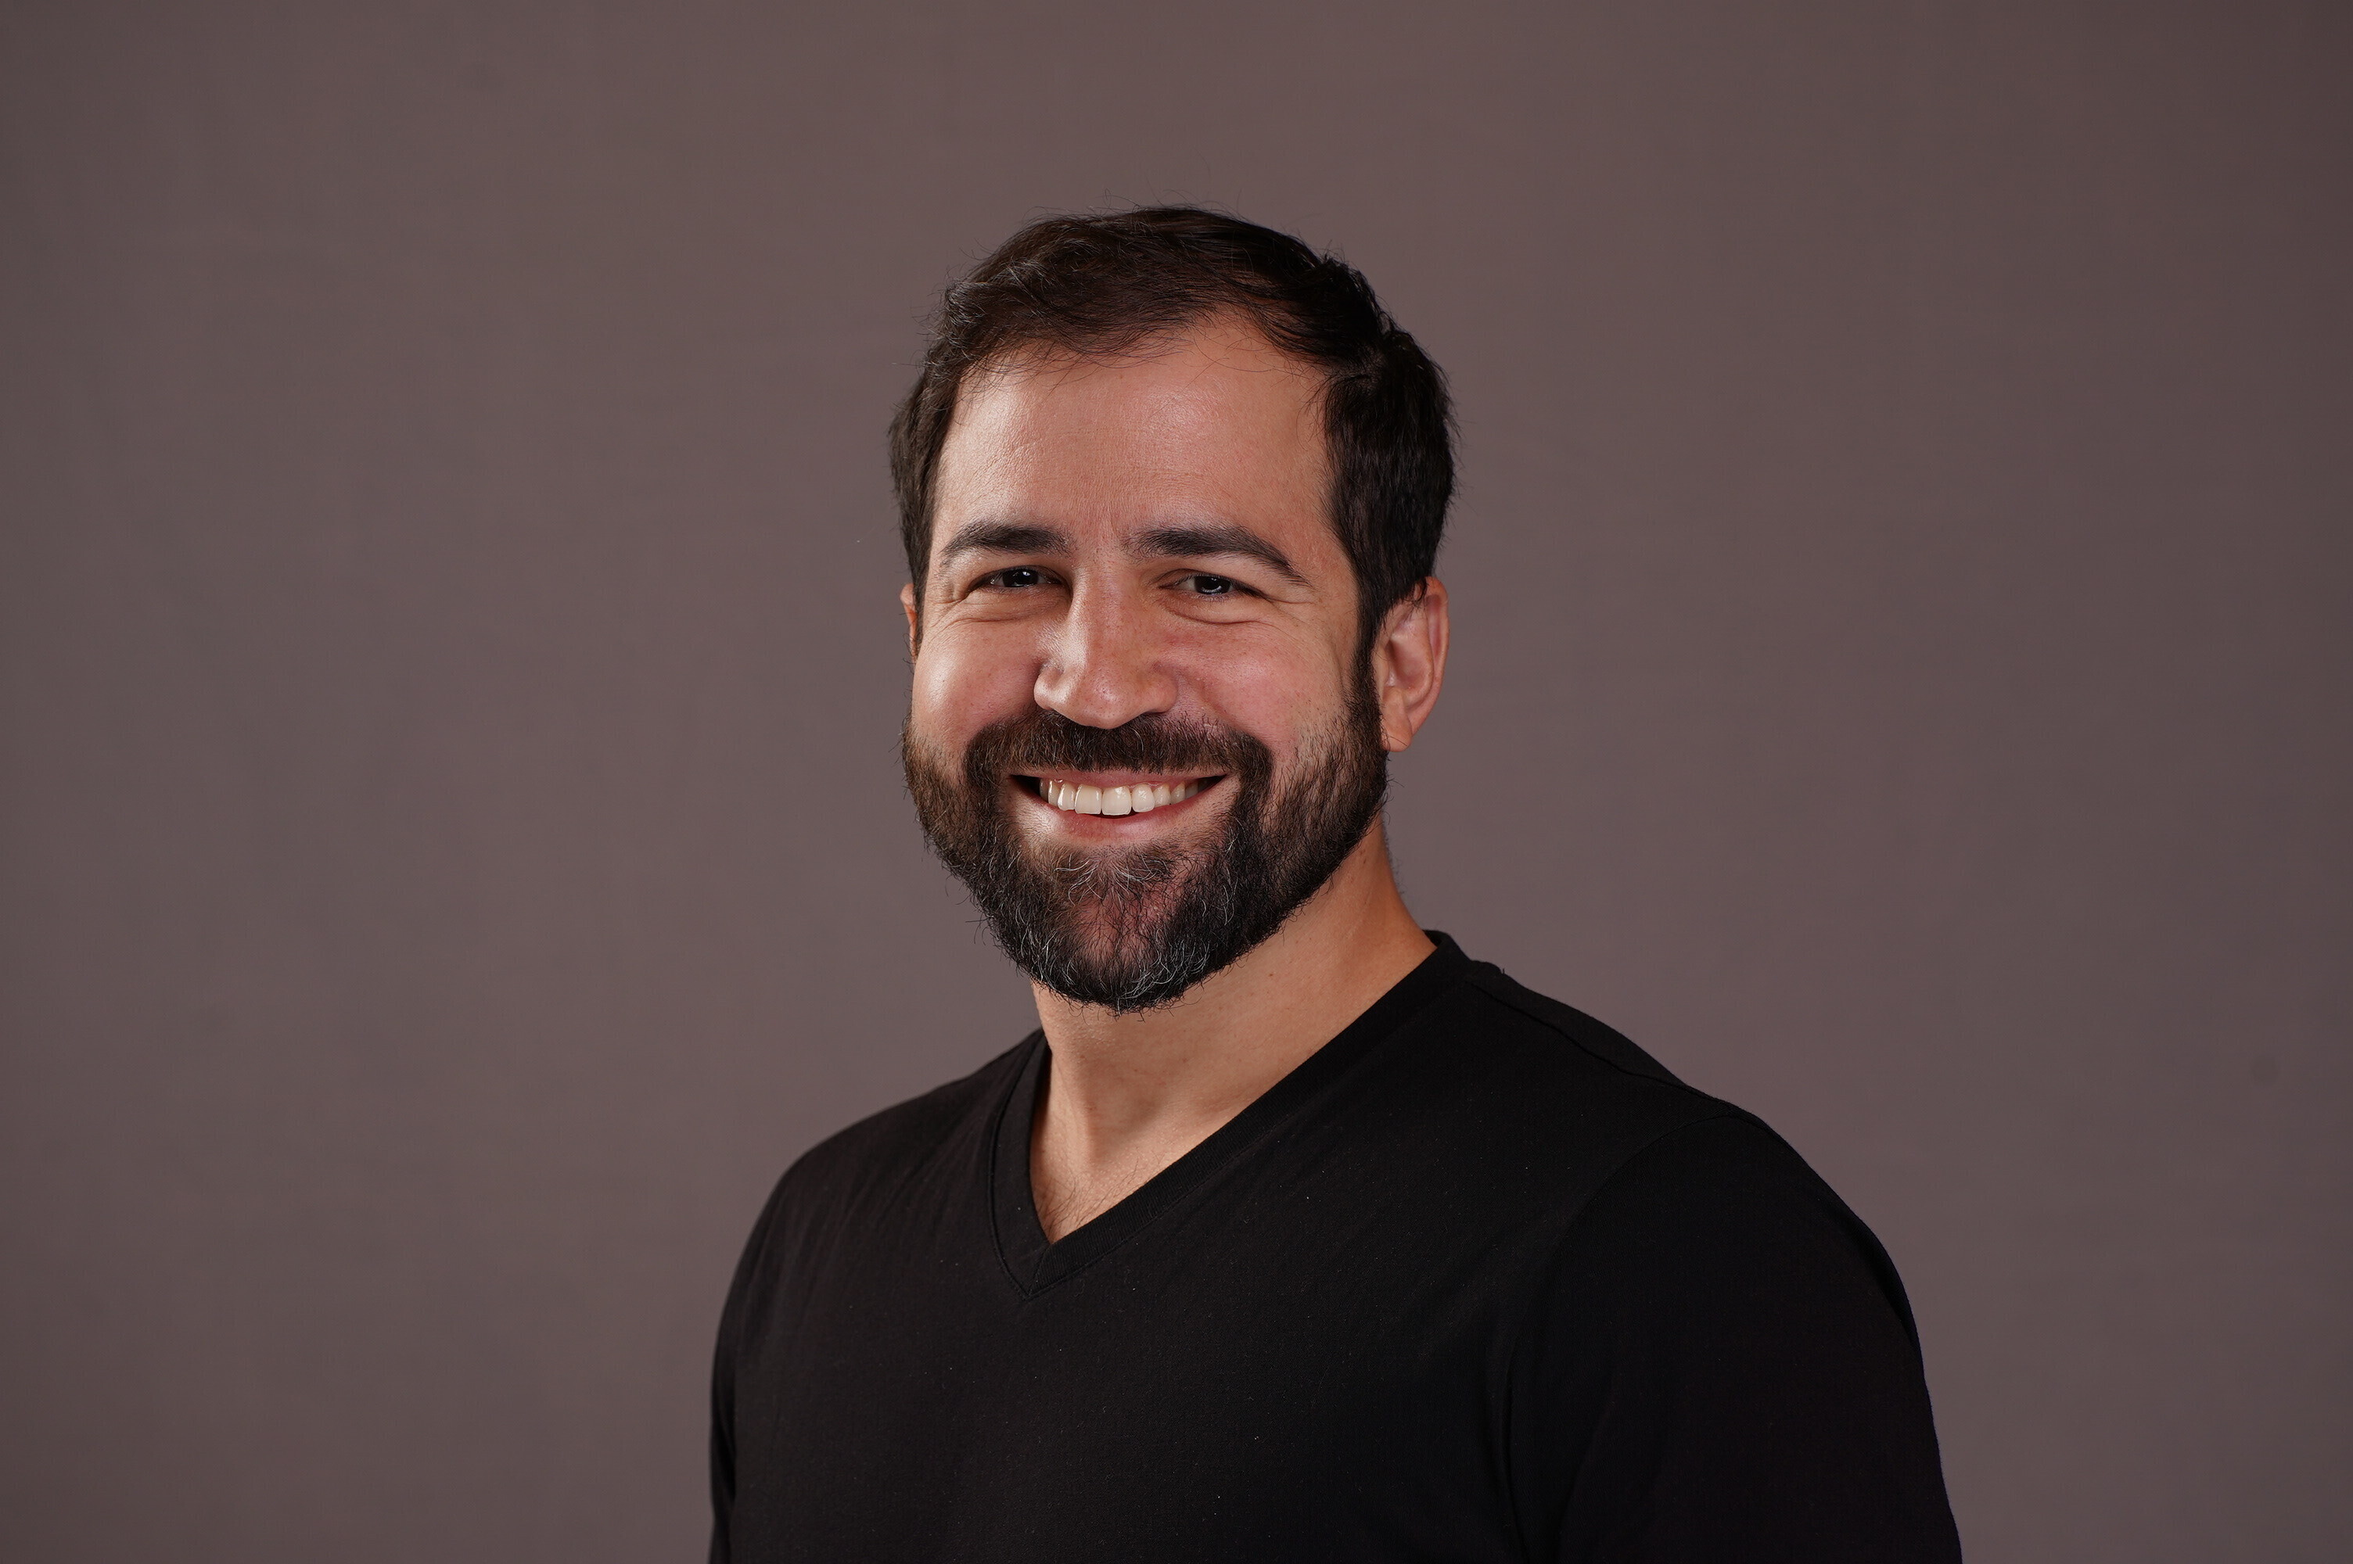
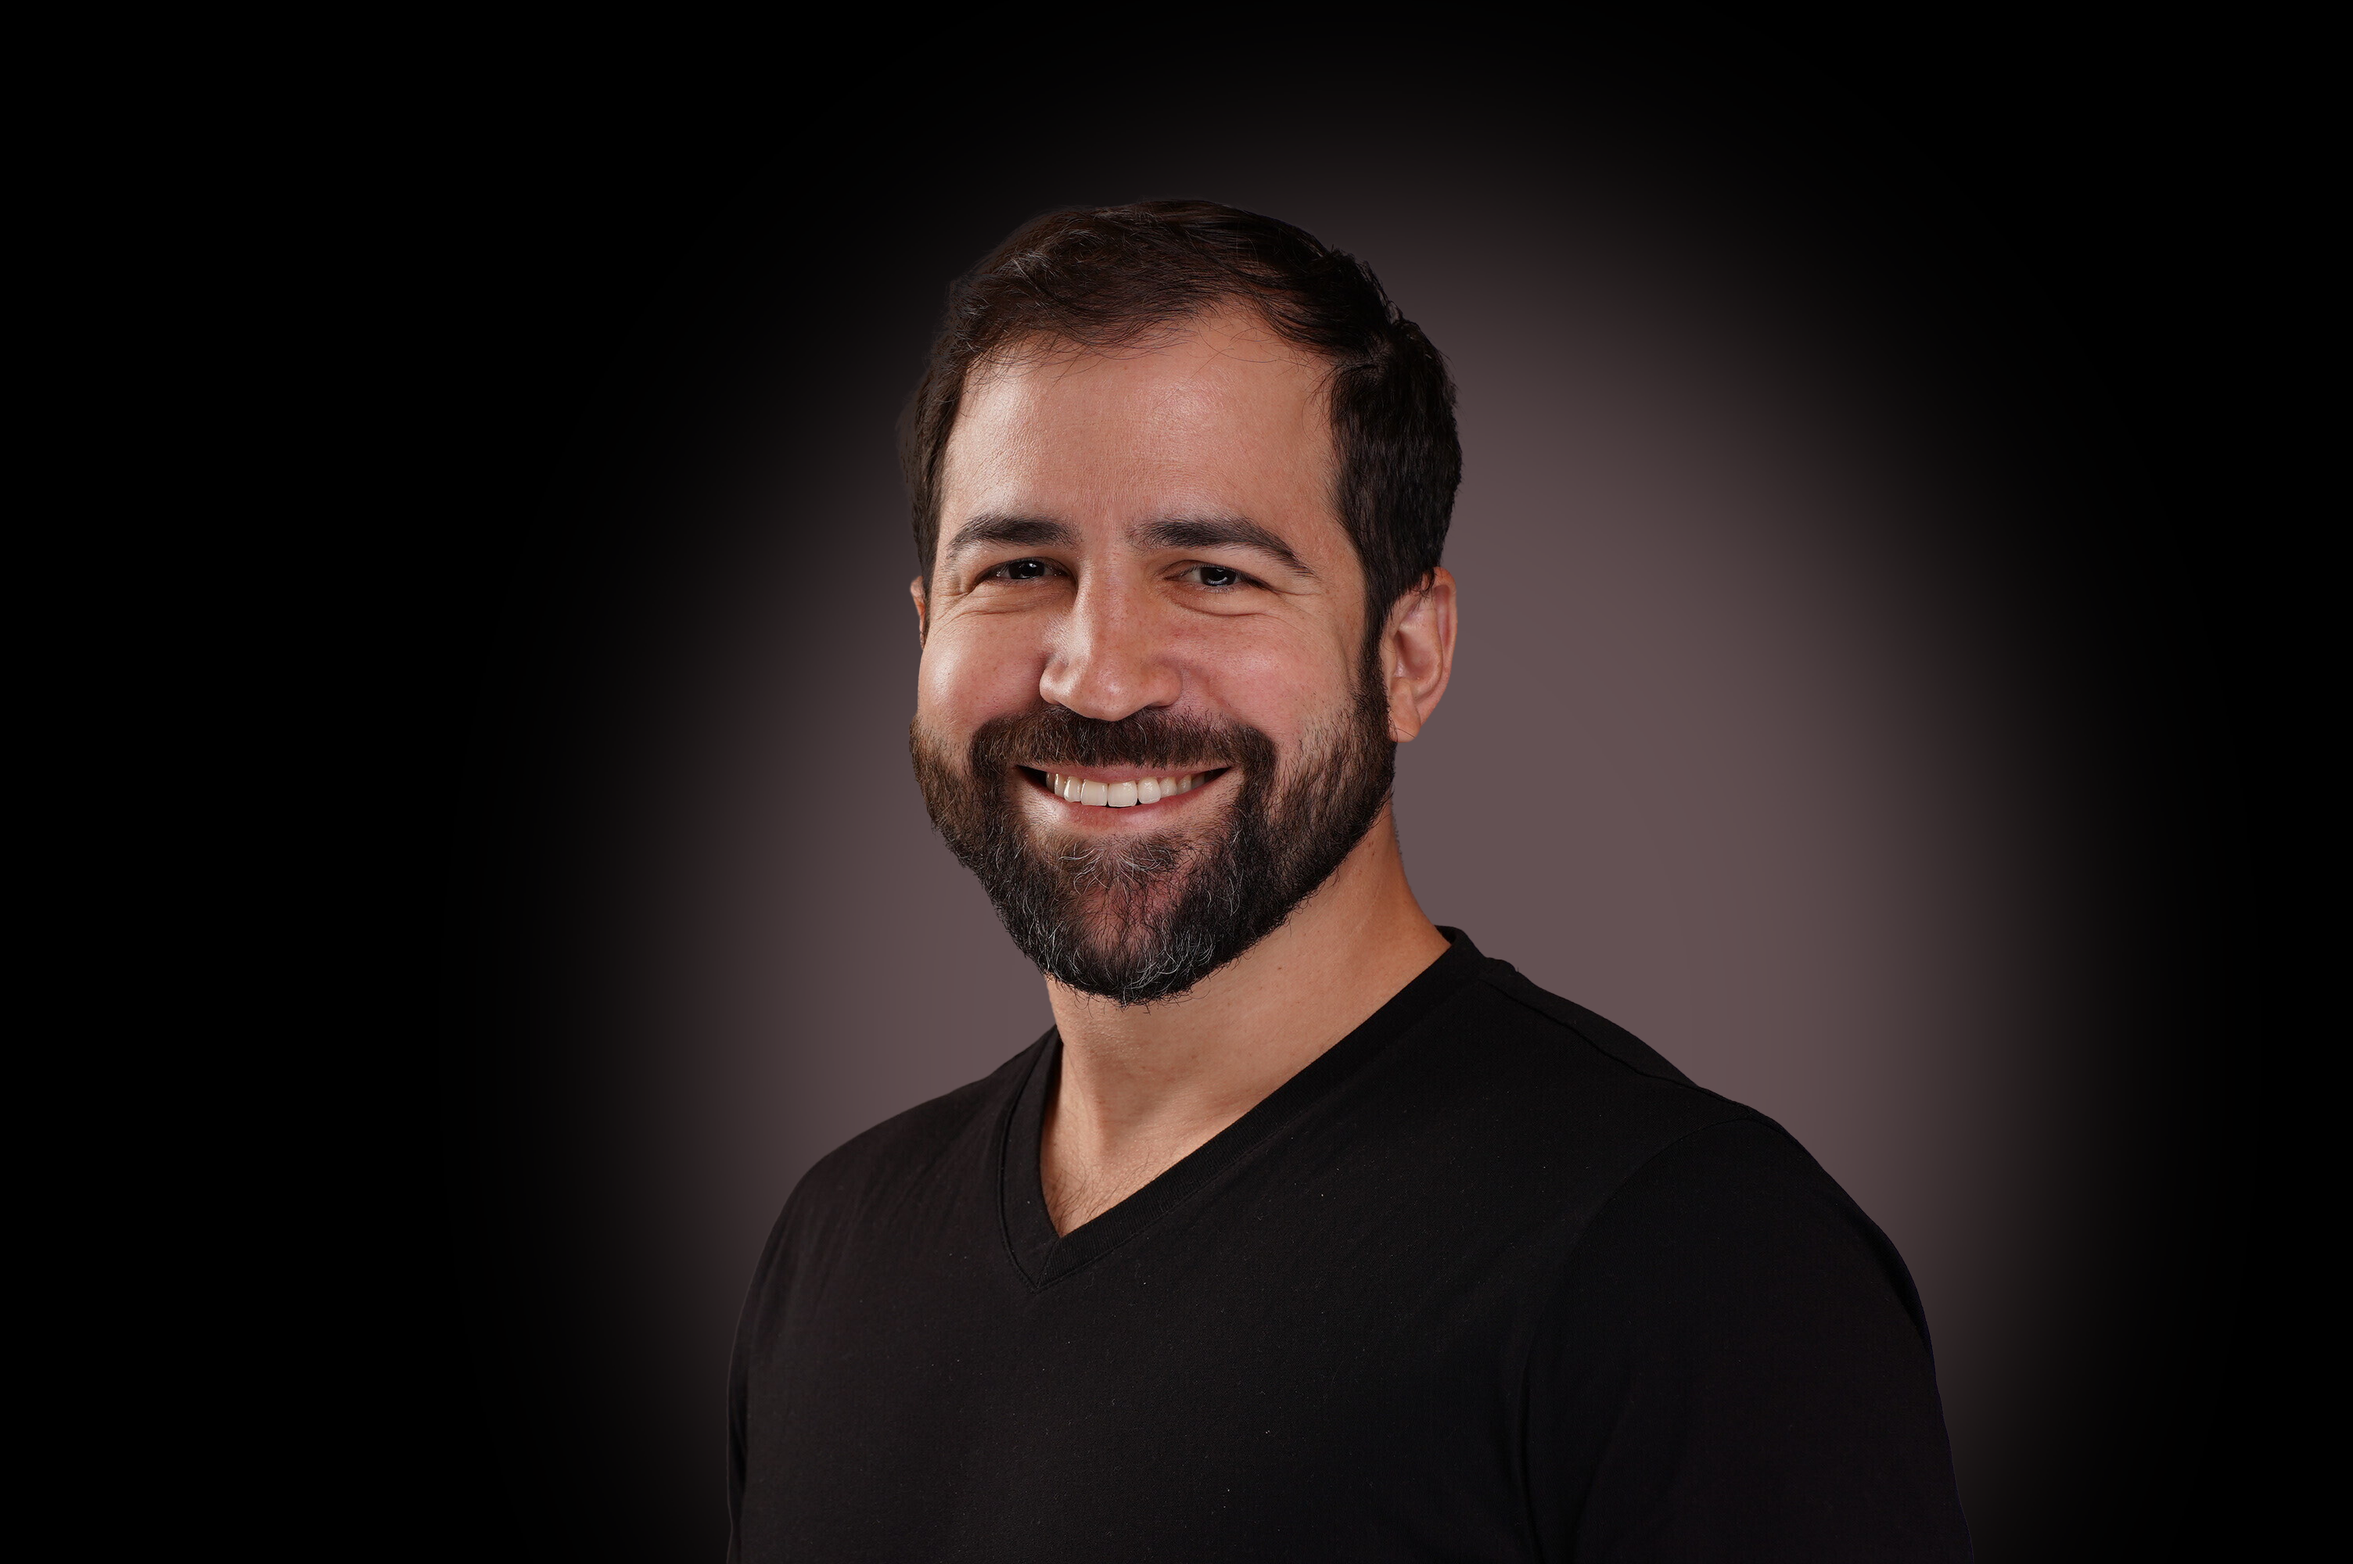
change hero image

diff --git a/src/components/HeroSection.tsx b/src/components/HeroSection.tsx
@@ -47,23 +47,13 @@ const HeroSection: React.FC = () => {
         </div>
 
         <div className="w-full md:w-1/2 flex items-center justify-center md:justify-end relative">
-          <div className="relative w-full h-auto md:h-[500px]">
+          <div className="relative w-full h-auto lg:h-[500px]">
             <img
               className="w-full h-full object-cover"
               src="/vitor-v2.JPG"
               alt="Vitor Oliveira"
             />
-            <div
-              className="absolute inset-0 pointer-events-none"
-              style={{
-                background: `
-                  linear-gradient(to right, rgba(0,0,0,0.8) 0%, rgba(0,0,0,0) 15%),
-                  linear-gradient(to left, rgba(0,0,0,0.8) 0%, rgba(0,0,0,0) 15%),
-                  linear-gradient(to bottom, rgba(0,0,0,0.8) 0%, rgba(0,0,0,0) 15%),
-                  linear-gradient(to top, rgba(0,0,0,0.8) 0%, rgba(0,0,0,0) 15%)
-                `,
-              }}
-            />
+            <div className="absolute inset-0 pointer-events-none" />
             {/* <motion.button
               whileHover={{ scale: 1.1 }}
               whileTap={{ scale: 0.9 }}

diff --git a/src/components/EngagementSection.tsx b/src/components/EngagementSection.tsx
@@ -40,7 +40,10 @@ const EngagementSection: React.FC = () => {
         
         <div className="grid md:grid-cols-4 gap-8">
           {engagements.map((item) => (
-            <div key={item.id} className="bg-white p-8 rounded-lg border border-gray-200 text-center">
+            <div 
+              key={item.id} 
+              className="bg-white p-8 rounded-lg border border-gray-200 text-center transition-all duration-300 hover:-translate-y-2 hover:shadow-lg hover:border-gray-300 cursor-pointer"
+            >
               <h3 className="text-2xl font-bold text-cto-dark mb-2">{item.title}</h3>
               <p className="text-zinc-600 font-medium mb-4">{item.hours}</p>
               <p className="text-zinc-500">{item.description}</p>
